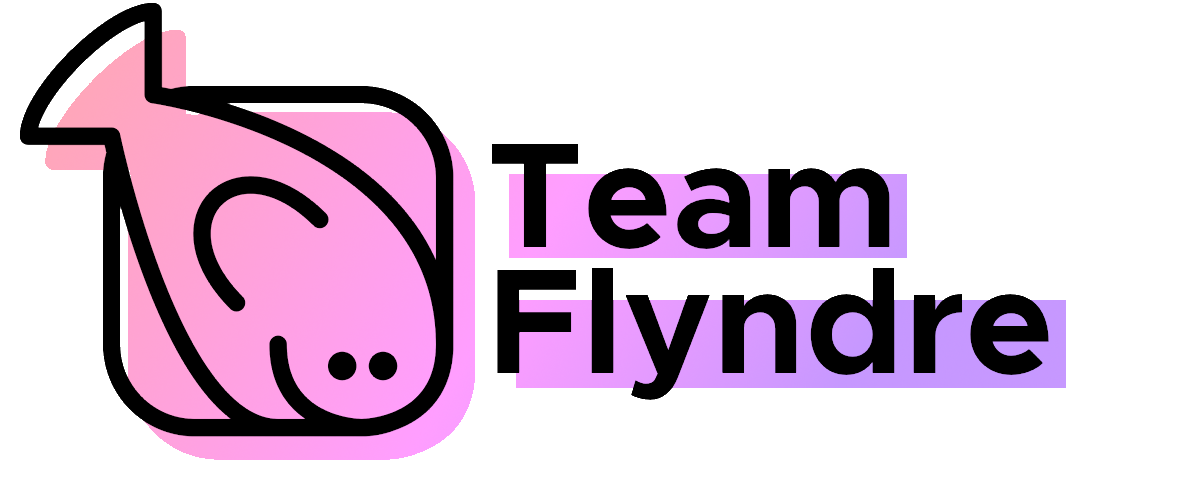
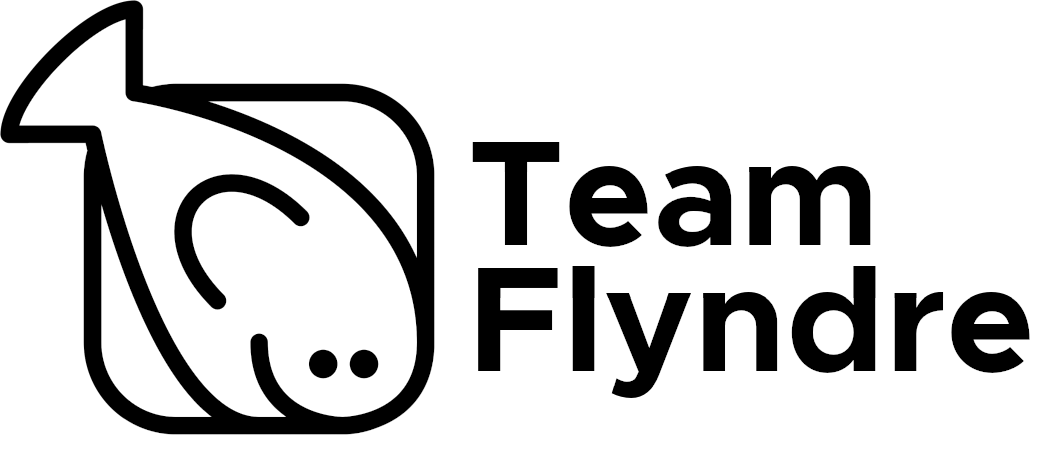
feat: changed header image

diff --git a/_layouts/default.html b/_layouts/default.html
@@ -17,7 +17,7 @@
 
     <header class="page-header" role="banner">
       <!-- <h1 class="project-name">{{ page.title | default: site.title | default: site.github.repository_name }}</h1> -->
-      <img src="/assets/img/header.png"/>
+      <img class="project-banner" src="/assets/img/header.png"/>
       <h2 class="project-tagline">{{ page.description | default: site.description | default: site.github.project_tagline }}</h2>
       {% if site.github.is_project_page %}
         <a href="{{ site.github.repository_url }}" class="btn">View on GitHub</a>

diff --git a/assets/css/style.scss b/assets/css/style.scss
@@ -3,8 +3,8 @@
 
 // Headers
 $header-heading-color: #fff;
-$header-bg-color: #ffa6ba;
-$header-bg-color-secondary: #c698ff;
+$header-bg-color: #c698ff;
+$header-bg-color-secondary: #ffa6ba;
 
 // Text
 $section-headings-color: #000000;
